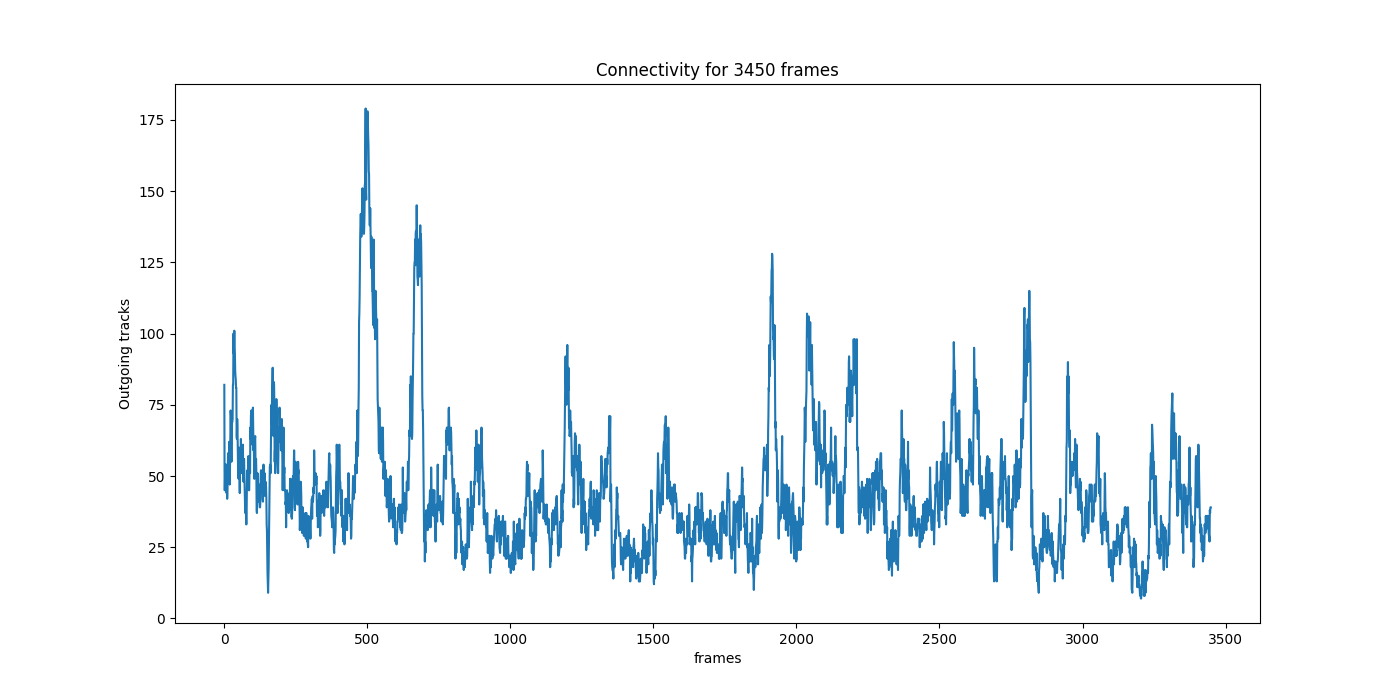
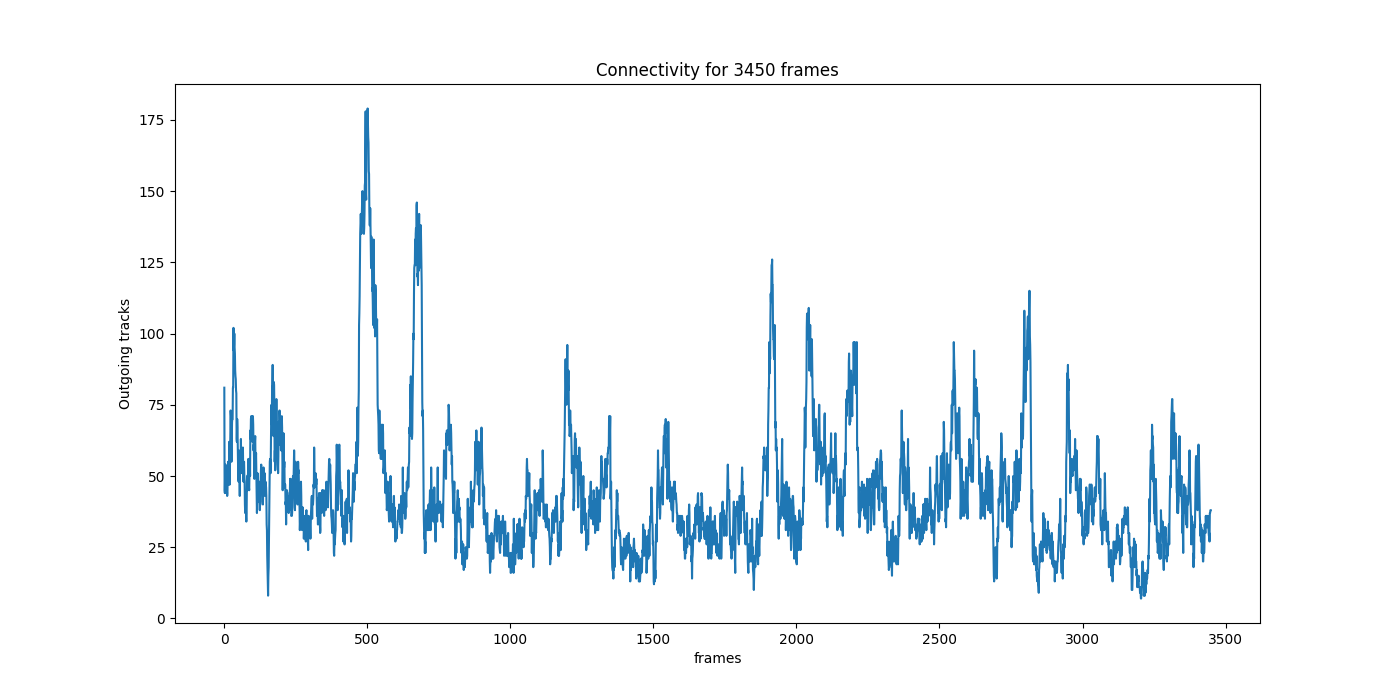
Rts is checked in seems to work fine

diff --git a/ex4.py b/ex4.py
@@ -128,14 +128,14 @@ def main():
     # 4.2
     db.present_statistics()
     # 4.3
-    track = utilities.get_track_in_len(db, 11, False)
+    track = utilities.get_track_in_len(db, 11, True)
     exs_plots.display_track(db, track, crop=False)
     # 4.4
-    # exs_plots.connectivity_graph(db.frames.values())
+    exs_plots.connectivity_graph(db.frames.values())
     # 4.5
-    # exs_plots.present_inliers_per_frame_percentage(db.frames.values())
+    exs_plots.present_inliers_per_frame_percentage(db.frames.values())
     # 4.6
-    # exs_plots.present_track_len_histogram(db.tracks)
+    exs_plots.present_track_len_histogram(db.tracks)
     # 4.7
     exs_plots.present_reprojection_error(db, track)
 
